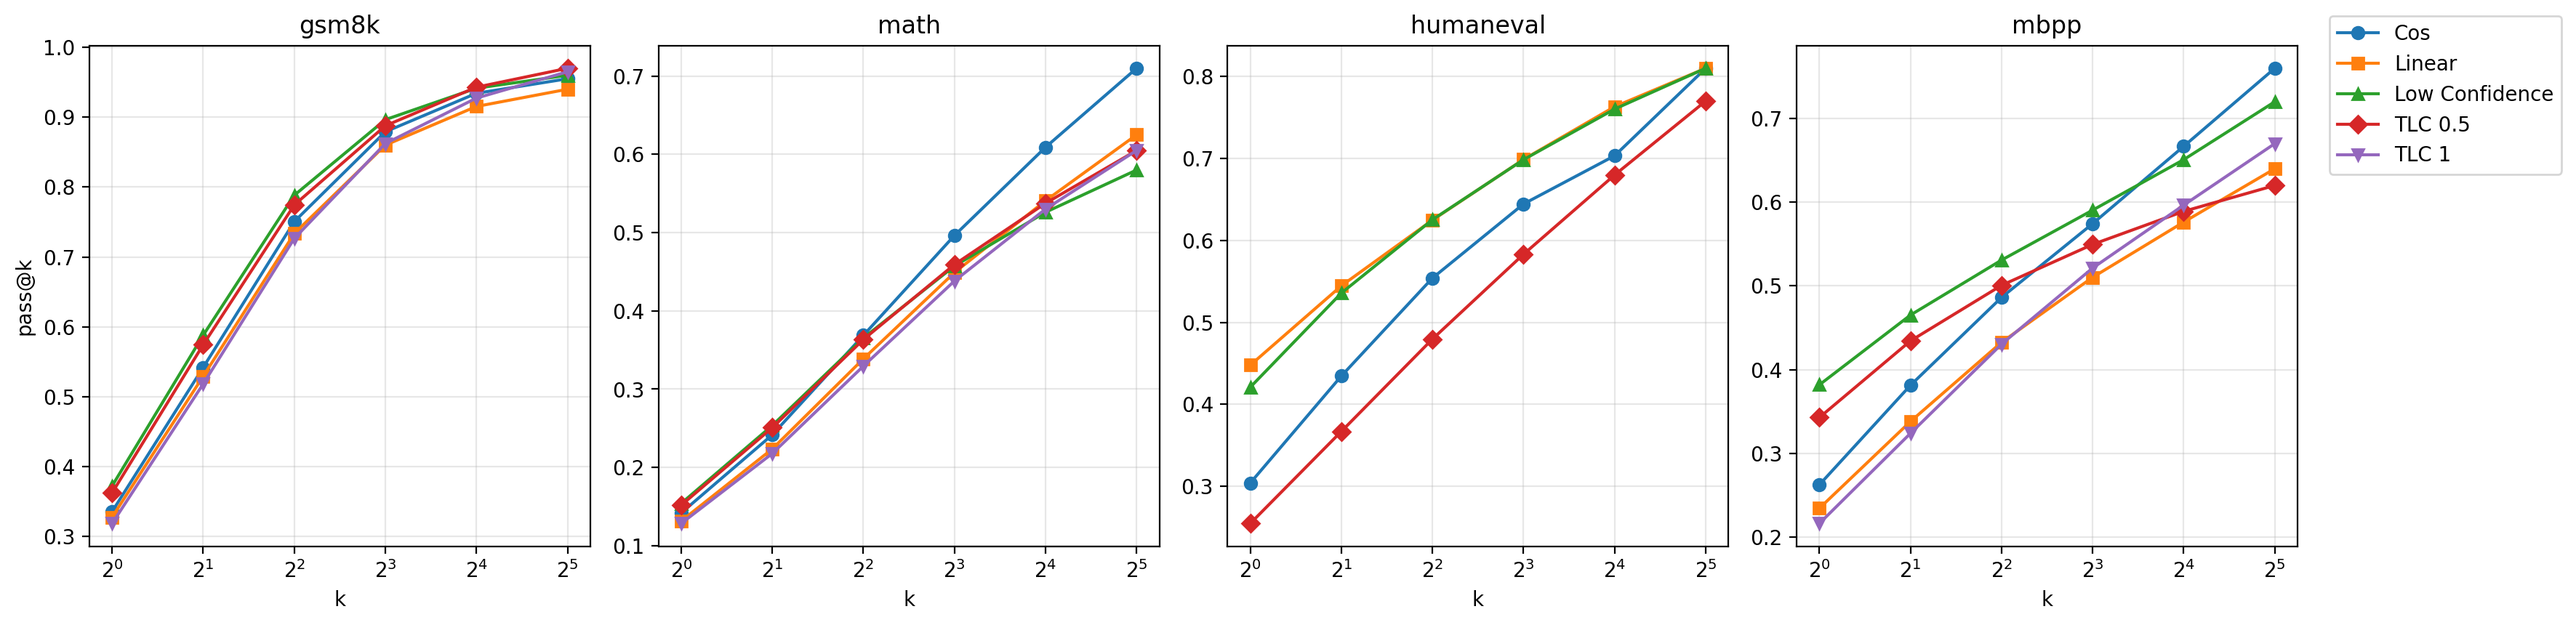
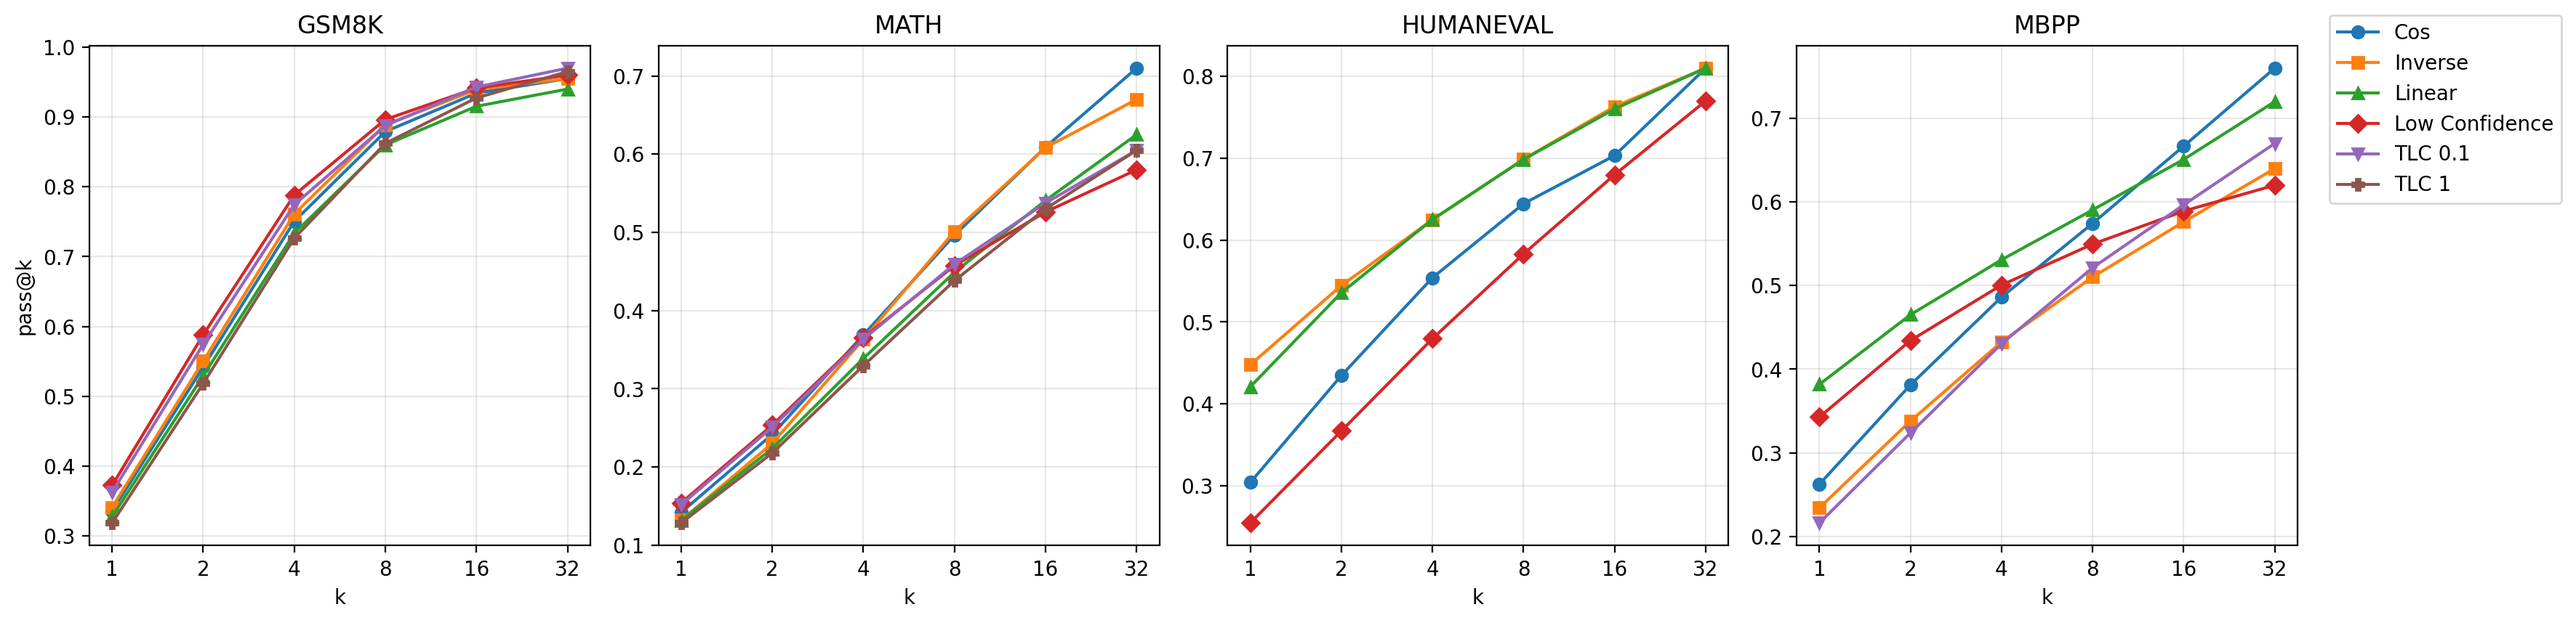
restyled graphs

diff --git a/analysis.py b/analysis.py
@@ -8,6 +8,7 @@ from itertools import cycle
 import matplotlib.pyplot as plt
 from collections import defaultdict
 from calculations import  calculate_pass_k, calculate_entropy_k
+from matplotlib.ticker import ScalarFormatter, NullFormatter
 
 
 K = [1, 2, 4, 8, 16, 32]
@@ -63,7 +64,9 @@ def stitch_results():
 
 
 markers_ = ["o", "s", "^", "D", "v", "P", "*"]
-shown_methods = ["Cos", "TLC 1", "TLC 0.5",  "Linear", "Low Confidence"]
+shown_methods = ["Cos", "TLC 1", "TLC 0.5",  "Linear", "Low Confidence", "Inverse"]
+
+label_map = {"TLC 0.5": "TLC 0.1"}
 
 def graph_entropy_k_data(per_seed, ):
     avg = per_seed.groupby(['dataset', 'method']).mean()
@@ -75,11 +78,13 @@ def graph_entropy_k_data(per_seed, ):
         for method in avg.loc[dataset].index:
             if method in shown_methods:
                 y = [avg.loc[(dataset, method), f"entropy@{k}"] for k in K]
-                ax[i].plot(K, y, marker=next(markers), label=method)
+                ax[i].plot(K, y, marker=next(markers), label=label_map.get(method, method))
             ax[i].set_xlabel("k")
-            ax[i].set_xticks(K)
             ax[i].set_xscale("log", base=2)
-            ax[i].set_title(dataset)
+            ax[i].set_xticks(K)
+            ax[i].xaxis.set_major_formatter(ScalarFormatter())
+            ax[i].xaxis.set_minor_formatter(NullFormatter())    
+            ax[i].set_title(dataset.upper())
             ax[i].set_box_aspect(1)
             ax[i].grid(True, alpha=0.3)
             ax[i].set_axisbelow(True)
@@ -106,11 +111,13 @@ def graph_pass_k_data(per_seed, per_execution):
                     y = [avg.loc[(dataset, method), f"pass@{k}"] for k in K]
                 else: 
                     y = [per_execution.loc[(dataset, method), f"pass@{k}"] for k in K]
-                ax[i].plot(K, y, marker=next(markers), label=method)
+                ax[i].plot(K, y, marker=next(markers), label=label_map.get(method, method))
             ax[i].set_xlabel("k")
-            ax[i].set_xticks(K)
             ax[i].set_xscale("log", base=2)
-            ax[i].set_title(dataset)
+            ax[i].set_xticks(K)
+            ax[i].xaxis.set_major_formatter(ScalarFormatter())
+            ax[i].xaxis.set_minor_formatter(NullFormatter())
+            ax[i].set_title(dataset.upper())
             ax[i].set_box_aspect(1)
             ax[i].grid(True, alpha=0.3)
             ax[i].set_axisbelow(True)

diff --git a/execute.py b/execute.py
@@ -76,23 +76,6 @@ def execute(program, task_id, timeout):
         result = result
     )
 
-def calculate(results):
-    K = [1, 2, 4, 8, 16, 32]
-    by_task = defaultdict(list)
-
-    for r in results:
-        by_task[r[task_id]].append(r['passed'])
-
-    out = {}
-
-    for k in K:
-        scores = [calculate_pass_k(len(v), sum(v), k) for v in by_task.values() if len(v) >= k]
-        if scores:
-            out[f'pass@{k}'] = float(np.mean(scores))
-
-    return res
-
-
 if __name__ == "__main__":
     multiprocessing.set_start_method("fork")
 
@@ -124,7 +107,7 @@ if __name__ == "__main__":
     by_method = defaultdict(lambda: defaultdict(list))
 
     for path in files:
-        m = re.match(r"samples_[^_]+_(.+?)_\d+_batch\d+\.jsonl$", os.path.basename(path))
+        m = re.match(r"samples_\w+?_(.+)_(\d+)_batch(\d+)\.jsonl$", os.path.basename(path))
         method = m.group(1) if m else os.path.basename(path)
 
         with open(path, "r") as file:
